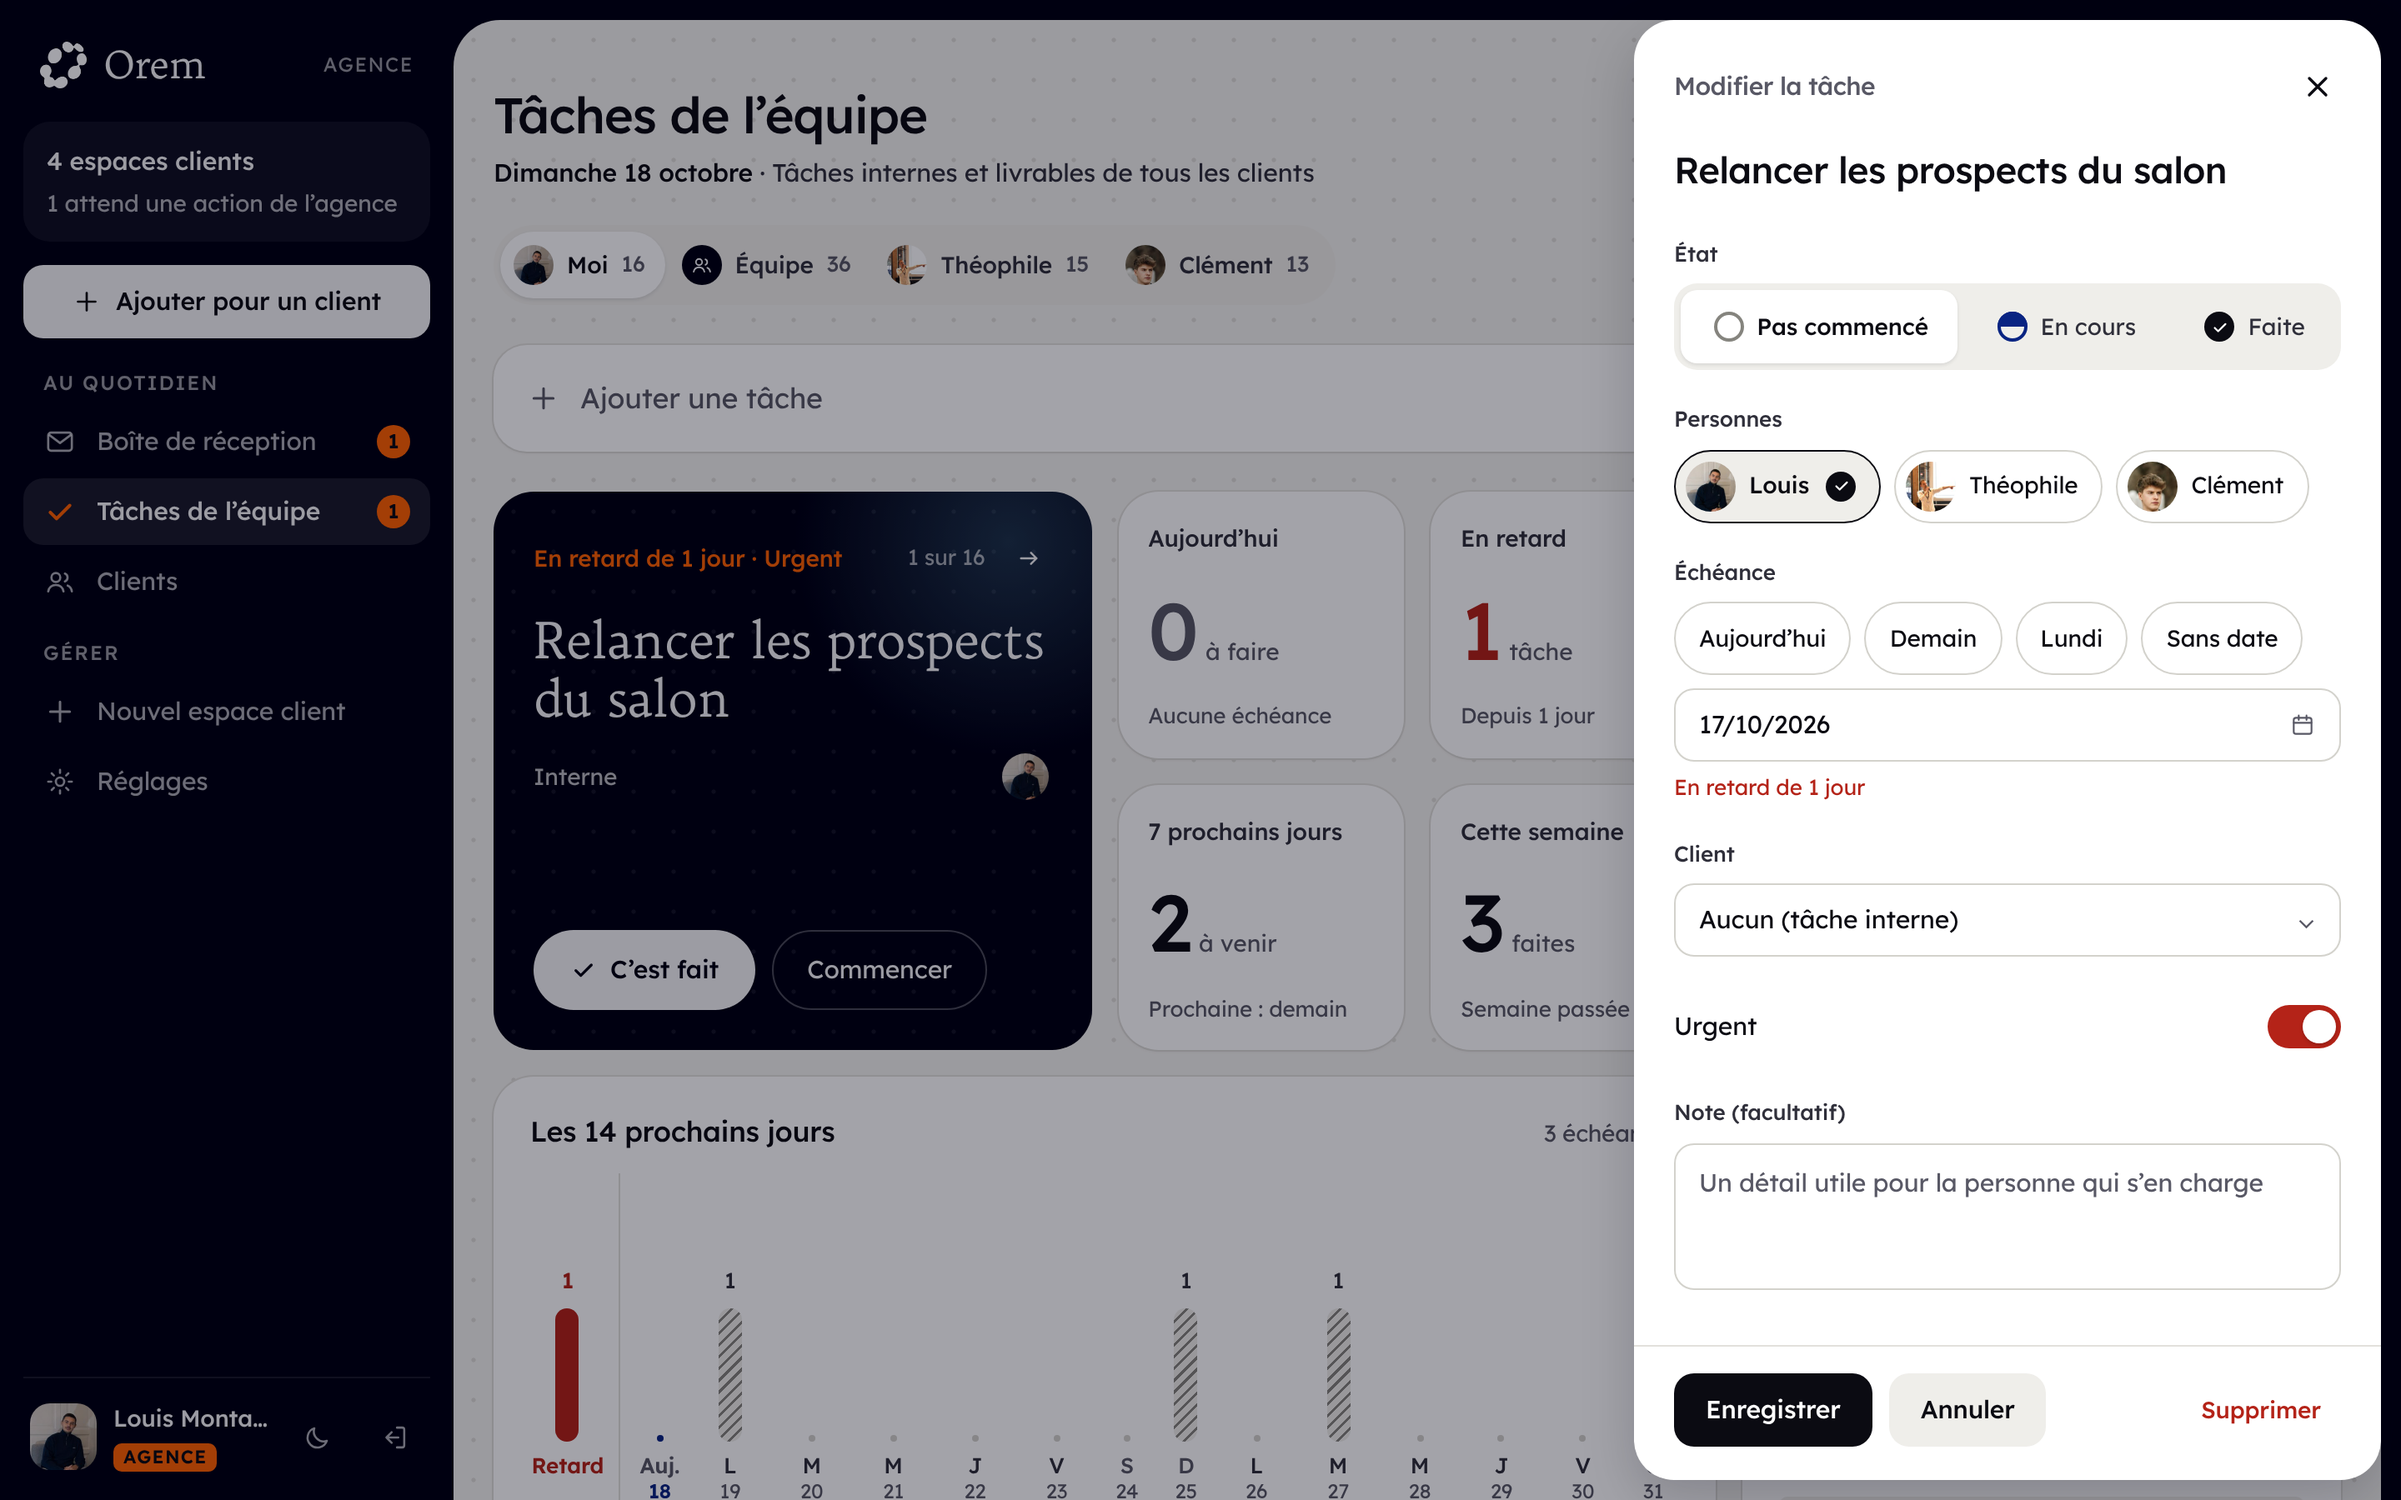
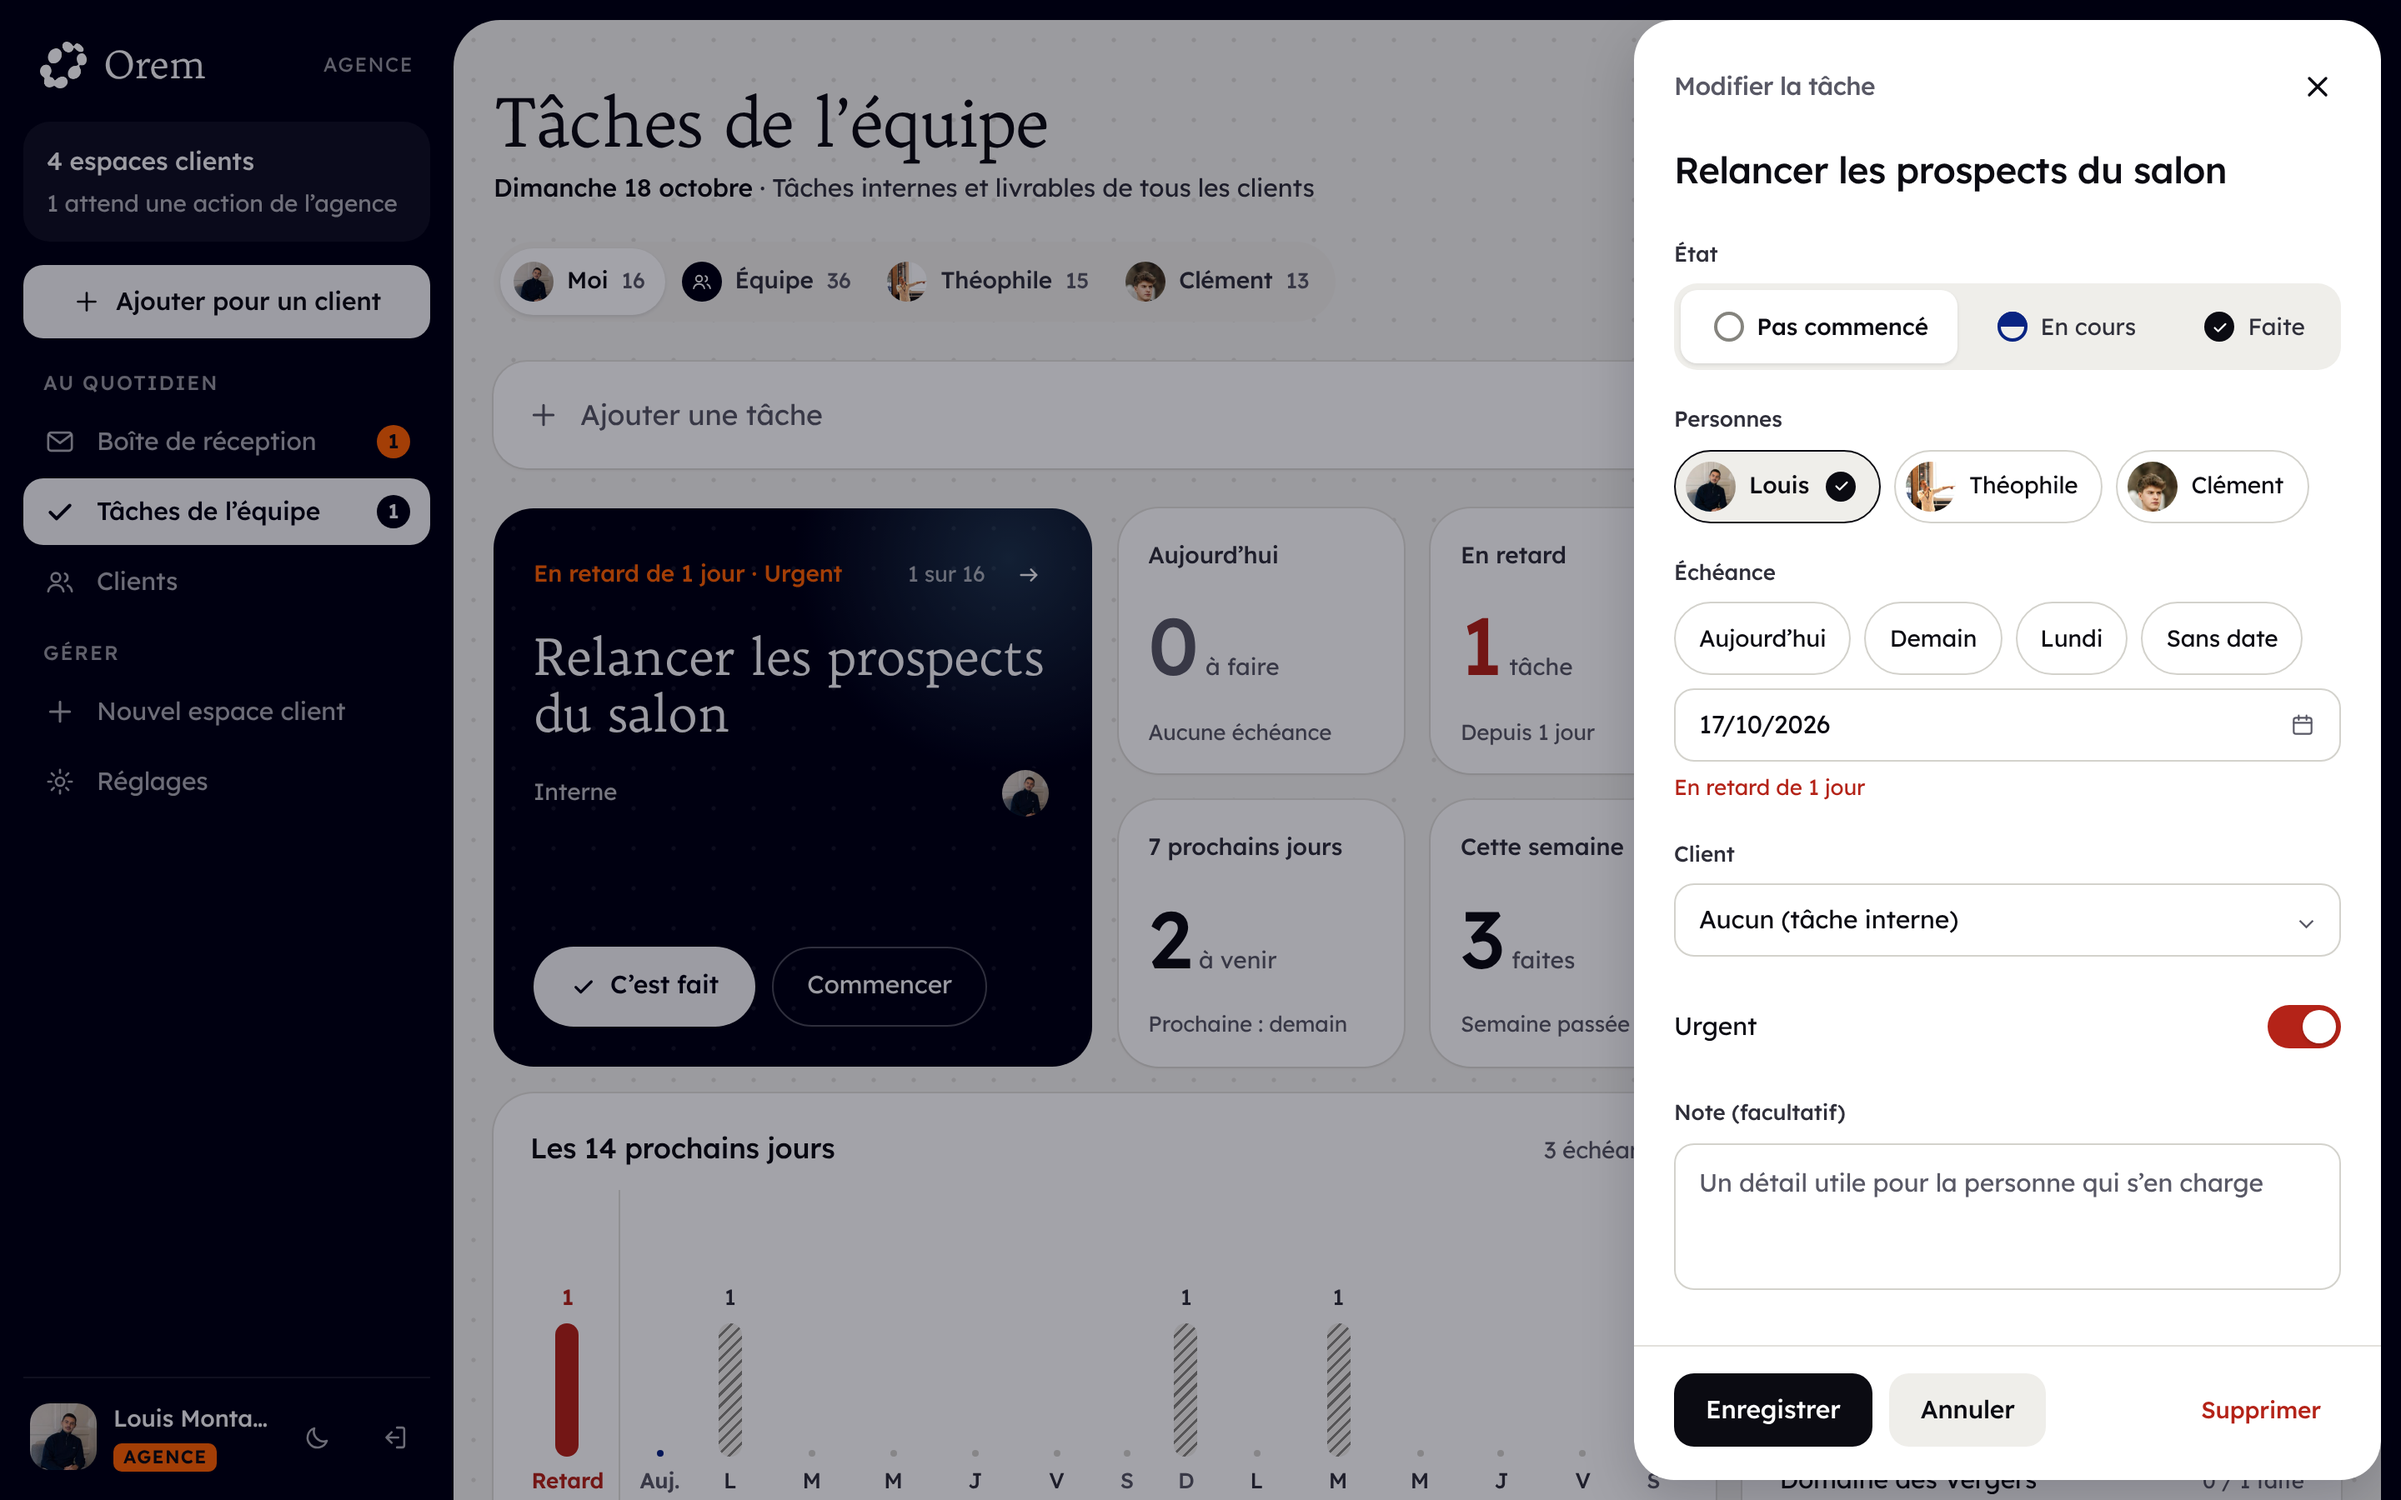
Maquettes : titres en Trykker et pilule blanche (décisions de Louis)
Claude-Session: https://claude.ai/code/session_01P3qgYGkfgGRmysGgL5NfQM

diff --git a/espace-client-orem/docs/maquettes/taches-v2/tk.css b/espace-client-orem/docs/maquettes/taches-v2/tk.css
@@ -302,3 +302,9 @@
 }
 .tk-fab{display:none}
 @media (max-width:860px){.tk-fab{display:grid;place-items:center;position:fixed;right:16px;bottom:calc(84px + env(safe-area-inset-bottom,0px));width:56px;height:56px;border-radius:50%;background:var(--cta);color:var(--on-cta);box-shadow:0 8px 24px rgba(0,0,18,.25);z-index:80;border:0}.tk-fab svg{width:22px;height:22px}.tk-wrap{padding-bottom:72px}}
+/* Décisions de Louis (18/10) : titres de page en Trykker, onglet actif en pilule blanche partout. */
+.tk-head h1{font-family:var(--serif);font-weight:400;font-size:40px;line-height:1.1;letter-spacing:-.02em}
+@container (max-width:599px){ .tk-head h1{font-size:32px} }
+.side .nav a[aria-current="page"]{background:#f4f4f6;color:#000012;font-weight:500}
+.side .nav a[aria-current="page"] svg{color:#000012}
+.side .nav a[aria-current="page"] .badge{background:#000012;color:#f4f4f6}

diff --git a/espace-client-orem/docs/REPRISE.md b/espace-client-orem/docs/REPRISE.md
@@ -54,6 +54,8 @@ Document de passation pour reprendre **exactement là où on s'est arrêtés** (
   - **Bug corrigé au passage** (trouvé par la suite `agence`, qui échouait une fois sur deux) : à l'ouverture de « Messages » côté client, un second rendu (messages marqués lus) effaçait ce que le client commençait à écrire. Les messages sont maintenant marqués lus avant l'affichage (`go()`), un seul rendu. Tests `agence` rendus robustes (attente du message affiché, fermeture répétée de la visite guidée) ; mobile agence : 5 onglets dont « Tâches ».
   - Idées suivantes possibles (non faites) : rappel du matin des tâches du jour, tâches récurrentes, sous-tâches ou liste de contrôle, glisser-déposer dans le tableau, section « Tâches internes » dans la fiche client.
 - **Refonte visuelle des tâches (18/10), EN ATTENTE DE VALIDATION de Louis** : il trouve la page « trop classique, pas assez intuitive » (référence Dribbble Nixtio « Health Overview » : bento, gros chiffres, carte sombre, data-viz ludique). Un expert UX a rédigé la spécification (bento : carte encre « Focus » sur la prochaine tâche, 4 chiffres cliquables, « Qui porte quoi » en matrice de points, « Les 14 prochains jours » en barres, « Par client » ; saisie rapide `@théo demain #Lumen !` ; cercle à cocher en un clic avec annulation 5 s ; panneau latéral d'édition ; tableau 4 colonnes avec « Chez le client » ; raccourcis clavier ; plus de chip « Livrable », tuile O.R.E.M. à la place). **Louis a demandé de voir les écrans avant toute mise en place** : maquettes réalisées dans le vrai cadre de l'app, sans toucher au code, dans `docs/maquettes/taches-v2/` (`tk.css`, `tk-render.js`, `shots.js` qui injecte le prototype dans l'app locale, `captures/`). Ne rien implémenter avant son accord.
+  - Maquettes de l'**espace client** aussi (`docs/maquettes/client-v2/`, 8 écrans + Messages et Maquettes et visuels en cours), relues par un expert UX comme celles des tâches (revue experte des tâches faite : chiffres honnêtes, mobile avec la liste tôt, pluriels, contrastes).
+  - **Décisions de Louis (18/10)** : titres de page en **Trykker** ; onglet actif de la barre latérale en **pilule blanche partout** (agence et client). Appliqué dans les maquettes des tâches.
 - `tests/tout.sh` : **16 suites à 100 %** (taches 17, agence 26 désormais stable, simulation 25, equipe 14, lots 24, a11y 24, agence 26, waouh 20, accueil 25, arrivee 9, bilans 5, depots 11, connecteurs 40, securite 13, core 61, version-test 12). `agence` a échoué une fois sur une question de délai pendant le passage complet, puis passé seul et rejoué : à surveiller. Export ZIP : ZIP64 seulement au-delà de 4 Go (les petites archives restent au format classique) ; branche ZIP64 vérifiée par Python et unzip avec un seuil abaissé (`unzip -l` affiche alors les accents en `#U00e9` si la langue du système n'est pas réglée : affichage seulement, les fichiers sont intacts).
 
 **En cours** : vérification de l'étape 5 par Louis sur https://espace.agence-orem.fr ; en attendant, les restes de l'audit UX et produit et les 52 propositions P3 du copywriting.
